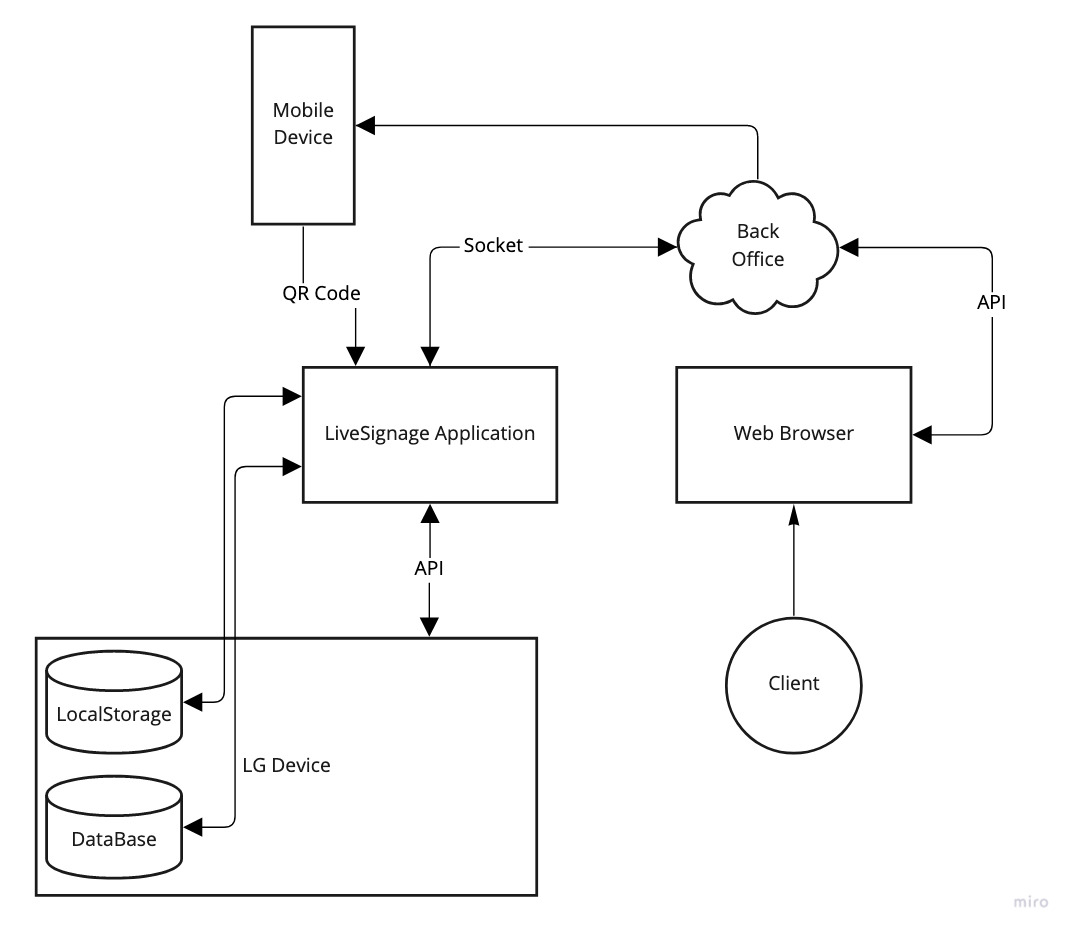
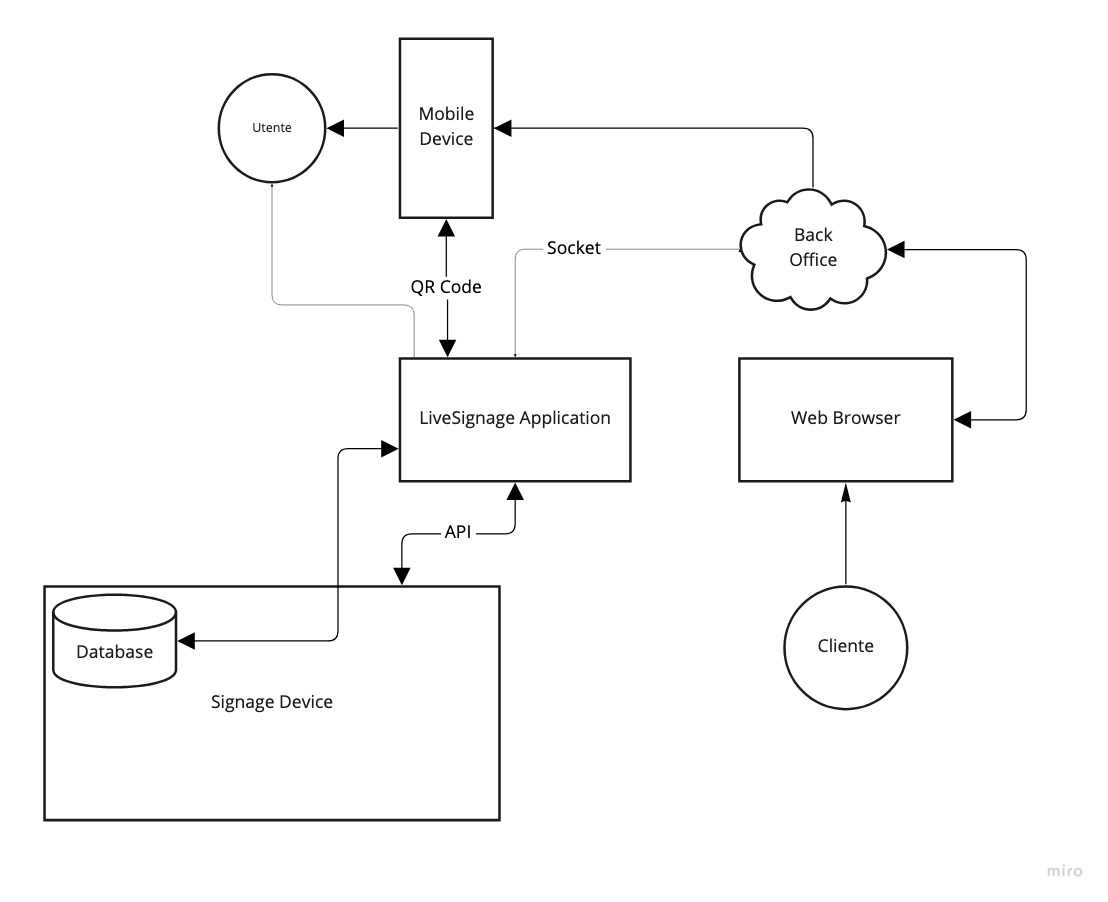
Introduzione: sistemato immagini e tomodify

diff --git a/chapters/Introduzione.tex b/chapters/Introduzione.tex
@@ -2,46 +2,51 @@
 \linespread{1.5}
 
 \section{In Breve}
-Breve introduzione sullo \edit{scopo e } svolgimento del tirocinio \edit{compreso il contesto in cui ho svolto il lavoro}, sull'applicazione LiveSignage e sua architettura, sullo stato dell'arte e sugli obiettivi raggiunti. Infine una descrizione della struttura di questa relazione.
+Breve introduzione sullo scopo e svolgimento del tirocinio compreso il contesto in cui ho svolto il lavoro, sull'applicazione LiveSignage e sua architettura, sullo stato dell'arte e sugli obiettivi raggiunti. Infine una descrizione della struttura di questa relazione.
 
 \section{Scopo del Tirocinio}
 
-Il tirocinio è stato svolto presso Softhrod srl. all'interno del progetto LiveSignage: applicazione focalizzata sulla distribuzione di contenuti multimediali targettizzati (client profile, store location, weather, product RFID etc.), dove ho partecipato alle fasi di analisi, progettazione e sviluppo della soluzione atta a sfruttare i dispositivi LG: professional display, videowall, smart TV, sistemi IoT, media player. Entrando a far parte del team di sviluppo e confrontandomi con UI/UX designer, sviluppatori front-end e back-end.
+Il tirocinio è stato svolto presso Softhrod srl. all'interno del progetto LiveSignage: applicazione focalizzata sulla distribuzione di contenuti multimediali targettizzati, dove ho partecipato alle fasi di analisi, progettazione e sviluppo della soluzione atta a sfruttare i dispositivi LG: professional display, videowall, smart TV, sistemi IoT, media player. Entrando a far parte del team di sviluppo e confrontandomi con UI/UX designer, sviluppatori front-end e back-end.
 
-L'obiettivo del lavoro era quello di sviluppare una versione dell'applicazione LiveSignage, capace di visualizzare specifici contenuti multimediali sulla base di eventi acquisiti e parametri indicati dall'utente, sviluppata in linguaggio Javascript sfruttando le API \tomodify{REST} della piattaforma, per il sistema operativo di LG: WebOs Signage.
+L'obiettivo del lavoro era quello di sviluppare una versione dell'applicazione LiveSignage, capace di visualizzare specifici contenuti multimediali sulla base di eventi acquisiti e parametri indicati dall'utente, sviluppata in linguaggio Javascript sfruttando le API REST della piattaforma, per il sistema operativo di LG: WebOs Signage.
 
 \section{Modalità di Lavoro}
 
-Ho lavorato in modalità mista ( telematica e presenza ) in maniera autonoma, ma mantenendo un confronto diretto sia con gli altri sviluppatori sia con i designer per tutte le scelte delle logiche e di sviluppo dell'applicazione. \tomodify{Ho così avuto modo di capire quale sia il processo produttivo dell'azienda, come si lavora in team e l'attenzione per l'esperienza utente.}
+Ho lavorato in modalità mista ( telematica e presenza ) in maniera prevalentemente autonoma, ma mantenendo un confronto diretto sia con gli altri sviluppatori sia con i designer per tutte le scelte delle logiche e di sviluppo dell'applicazione. Ho così avuto modo di capire quale sia il processo produttivo dell'azienda, come si lavora in team e l'attenzione per l'esperienza utente fondamentale per questo software.
 
 \section{LiveSignage}
 
-LiveSignage è un’applicazione per il digital signage sviluppata per vari dispositivi specializzati tra i quali quelli di Samsung. L’idea è quella di permettere al cliente di aumentare il proprio engagement in modo semplice, permettendo di mostrare facilmente qualsiasi contenuto: filmati, foto, infografiche, webfeed e informazioni in tempo reale.
+LiveSignage è un’applicazione per il digital signage sviluppata per vari dispositivi specializzati tra i quali quelli di Samsung. L’idea è quella di permettere al cliente di aumentare il proprio engagement in modo semplice, permettendo di mostrare facilmente qualsiasi contenuto: filmati, foto, infografiche, webfeed e informazioni in tempo reale. Tramite l'utilizzo di alcuni plugin, è possibile ampliare ancora i casi d'uso del servizio: come la possibilità di fare webcall e l'integrazione di social network.
 
 \begin{figure}[!htb]
     \centering
     \includegraphics[width= 0.5\textwidth]{images/Introduzione/LiveTurist.jpg} 
-    \caption{LiveSignage per scopi turistici.} 
+    \caption{Esempio di infografica in un'installazione cittadina.} 
 \end{figure}
 
 Inoltre, tramite un codice QR creato automaticamente insieme ai contenuti mostrati, l'utente finale può ricevere le informazioni in modo più dettagliato sul proprio dispositivo mobile senza bisogno di scaricare applicazioni o fare ricerche online.
 
-\tomodify{I casi d'uso sono molteplici: cinema, ristoranti, turismo, sanità e soluzioni personalizzate, per fare alcuni esempi.
-Tramite l'utilizzo di alcuni plugin è inoltre possibile ampliare ancora le possibilità del servizio come la possibilità di fare webcall e l'integrazione di social network.}
+I casi d'uso sono molteplici: cinema, ristoranti, turismo, sanità e soluzioni personalizzate, per fare alcuni esempi.
 
 \section{Stato dell'arte}
 
 All'inizio del tirocinio LiveSignage era già disponibile per dispositivi di Samsung e Raspberry.  
 
-L'idea alla base dell'applicazione è quella di mostrare una serie di slide organizzate in playlist; ogni slide può mostrare diversi tipi di contenuti come ad esempio immagini, video, web page, mappe, social network, input esterni. Le playlist possono essere di diverso tipo:
+L'idea alla base dell'applicazione è quella di mostrare una serie di slide organizzate in playlist; ogni slide può mostrare diversi tipi di contenuti come ad esempio immagini, video, web page, mappe, notizie, input esterni. Le playlist possono essere di diverso tipo:
 
 \begin{itemize}
     \item Semplici: le slide vengono mostrate a schermo intero e si susseguono continuamente;
     \item Composte: in questo caso lo spazio a disposizione viene suddiviso in più parti e in ognuna di queste viene mostrata una playlist diversa;
     \item Concatenate: vengono concatenate più playlist una dopo l'altra.
+    \begin{figure}[!htb]
+        \centering
+        \includegraphics[width= 0.8\textwidth]{images/Introduzione/playlist-composta.png} 
+        \caption{Una playlist composta.} 
+    \end{figure}
 \end{itemize}
 
-\tomodify{Oltre alle semplici playlist è possibile anche inserire dei plugin per poter dare al cliente più possibilità di personalizzazione }, questi ad esempio permettono di  mostrare contenuti interattivi utilizzando l'input dell'utente tramite il touchscreen o di inserire il proprio e-commerce.
+
+Oltre alle playlist è possibile utilizzare dei plugin per poter dare al cliente più possibilità di personalizzazione. Ad esempio permettendo di  mostrare contenuti interattivi utilizzando l'input dell'utente tramite il touchscreen o di inserire il proprio e-commerce.
 
 \subsection{Architettura}
 \begin{figure}[!htb]
@@ -51,13 +56,12 @@ L'idea alla base dell'applicazione è quella di mostrare una serie di slide orga
     \label{fig:architettura}
 \end{figure}
 
-\tomodify{immagine dell'architettura da modificare: \url{https://miro.com/app/board/uXjVOjz-X_4=/}}
 
-\tomodify{L'applicazione è installata direttamente sul device, il cliente può impostare le playlist o eventuali modifiche del sistema come: timer di accensione e spegnimento, fuso orario, volume e luminosità, direttamente da un browser o dall'applicazione per dispositivi mobili (Figura: \ref*{fig:schermata-web}).\nl
+L'applicazione è installata direttamente sul device, il cliente può impostare le playlist o eventuali modifiche del sistema come: timer di accensione e spegnimento, fuso orario, volume e luminosità, direttamente da un browser o dall'applicazione per dispositivi mobili (Figura: \ref*{fig:schermata-web}).\nl
 Queste modifiche vengono inviate, tramite chiamate API al BackOffice che attraverso una socket si occupa di comunicare all'applicazione i cambiamenti avvenuti. 
 L'applicazione utilizza le API del device per settare le modifiche di sistema e scrivere i file necessari per il mantenimento dei database e il salvataggio degli assets necessari: immagini e video. \n
-Sono utilizzati due database: il primo è usato per salvare tutte le informazioni sulle playlist inserite fino a quel momento, eventuali timer, ID del dispositivo e altre informazioni utili al corretto funzionamento, il secondo salva i messaggi, tipicamente di errore, dell'applicazione; questo serve per permettere al cliente di scaricare questi messaggi in caso di problemi.\n
-Le immagini e i video scaricati vengono salvati sul dispositivo e non saranno cancellate a meno di una richiesta specifica del cliente o in caso di necessità di liberare memoria. Questo per evitare di scaricare più volte lo stesso file.}\n
+Sono utilizzati due database: il primo è usato per salvare tutte le informazioni sulle playlist inserite fino a quel momento, eventuali timer, ID del dispositivo e altre informazioni utili al corretto funzionamento, il secondo salva i messaggi, tipicamente di errore, dell'applicazione che possono essere successivamente scaricati.\n
+Per diminuire i tempi di attesa dovuti ai download e il carico della rete le immagini e i video scaricati vengono salvati sul dispositivo e non saranno cancellate a meno di una richiesta specifica del cliente o in caso di necessità di liberare memoria.\n
 
 La figura \ref*{fig:architettura} mostra in maniera schematica l'architettura dell'applicazione e l'interazione con l'utente finale.
 

diff --git a/appunti.md b/appunti.md
@@ -1,8 +1,9 @@
 # Cose da ricordarsi
 
 ## Introduzione
+[ ] Cambiare immagine back-office
 [ ] Architettura
-    [ ] cosa sono le playlist   
+    [x] cosa sono le playlist   
 
 ## Tecnologie utilizzate
 [ ] jquery 
